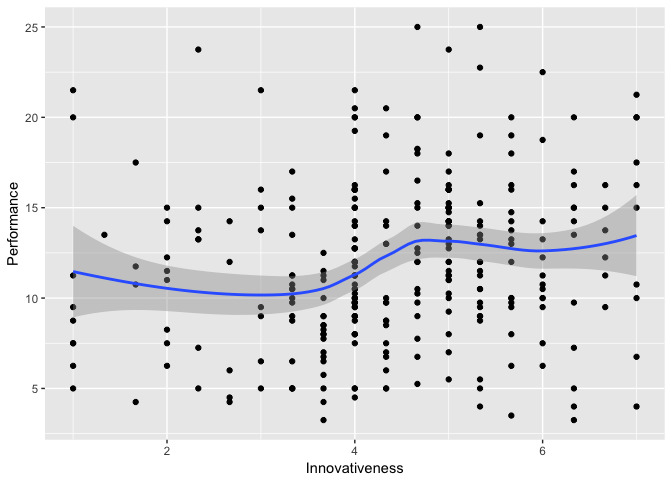
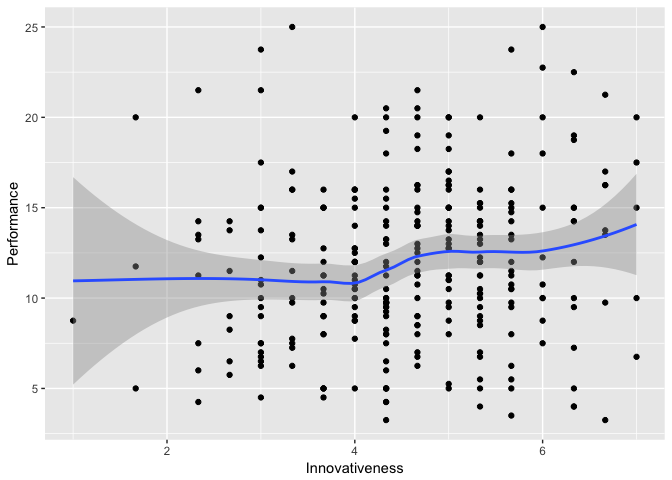
Fixed Innovativeness Index

diff --git a/Jan25.md b/Jan25.md
@@ -114,7 +114,7 @@ head(Lab2data.ds, 10)
 # create the innovativeness, proactiveness, and risk taking variables and select only varibles I need
 
 Lab2data.df <- Lab2data.ds %>%
-  mutate(Innovativeness = (INN2+INN2+INN3) / 3,
+  mutate(Innovativeness = (INN1+INN2+INN3) / 3,
          Proactiveness = (PRO1+PRO2+PRO3) / 3,
          RiskTaking = (RISK1+RISK2+RISK3) / 3) %>%
   select(FirmID, Performance, Innovativeness, Proactiveness, RiskTaking)
@@ -139,12 +139,12 @@ skim(Lab2data.df)
     ## 
     ## Variable type: numeric 
     ##        variable missing complete   n  mean   sd   p0  p25 median   p75
-    ##  Innovativeness       0      294 294  4.41 1.34 1    3.67   4.33  5.33
+    ##  Innovativeness       0      294 294  4.58 1.14 1    4      4.67  5.33
     ##     Performance       0      294 294 11.92 4.5  3.25 9     11.5  15   
     ##   Proactiveness       0      294 294  4.55 1.11 1.33 4      4.67  5.33
     ##      RiskTaking       0      294 294  4.3  1.17 1    3.67   4.33  5   
     ##  p100     hist
-    ##     7 ▁▁▁▇▃▅▃▂
+    ##     7 ▁▁▃▇▇▇▃▃
     ##    25 ▃▃▇▆▆▂▂▁
     ##     7 ▁▂▃▇▇▆▅▂
     ##     7 ▁▁▂▇▅▃▃▁
@@ -161,3 +161,45 @@ qplot(Innovativeness, Performance, data = Lab2data.df,
 ```
 
 ![](Jan25_files/figure-markdown_github/unnamed-chunk-4-1.png)
+
+------------------------------------------------------------------------
+
+### Specify model syntax and run model
+
+``` r
+library(lavaan)
+
+#Specify model syntax
+perf.model.syntax <- 'Performance ~ Innovativeness + Proactiveness + RiskTaking'
+
+#run the model
+perf.model <- sem(perf.model.syntax, data=Lab2data.df)
+
+#display model results
+summary(perf.model)
+```
+
+    ## lavaan (0.5-23.1097) converged normally after  24 iterations
+    ## 
+    ##   Number of observations                           294
+    ## 
+    ##   Estimator                                         ML
+    ##   Minimum Function Test Statistic                0.000
+    ##   Degrees of freedom                                 0
+    ##   Minimum Function Value               0.0000000000000
+    ## 
+    ## Parameter Estimates:
+    ## 
+    ##   Information                                 Expected
+    ##   Standard Errors                             Standard
+    ## 
+    ## Regressions:
+    ##                    Estimate  Std.Err  z-value  P(>|z|)
+    ##   Performance ~                                       
+    ##     Innovativeness    0.400    0.283    1.415    0.157
+    ##     Proactiveness     0.053    0.324    0.163    0.871
+    ##     RiskTaking        0.290    0.291    0.996    0.319
+    ## 
+    ## Variances:
+    ##                    Estimate  Std.Err  z-value  P(>|z|)
+    ##    .Performance      19.603    1.617   12.124    0.000
